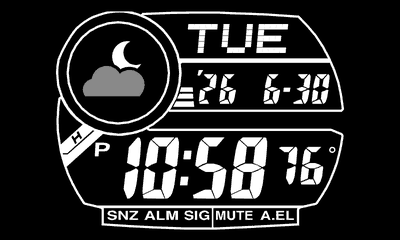
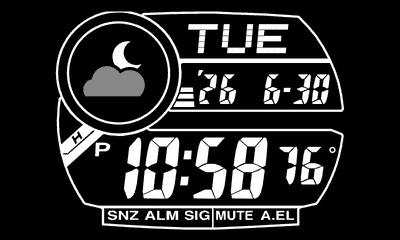
3147 circles; images with content hashes against stale caches
Claude-Session: https://claude.ai/code/session_01WrLPH9CSGwuJCbw1xzJHza

diff --git a/index.html b/index.html
@@ -36,18 +36,18 @@ small { display: block; color: var(--muted); }
 <p>Every face of the LCD Watch plugin for TRMNL, by its name in the Watch Face setting. Fully digital watches only,
 no analog-digital ones. Switch Weather on to see each watch with the plugin's Weather setting on: the weather in
 the watch's own style.</p>
-<figure class="sheet" data-lcd="all-faces.png" data-inv="all-faces-inverted.png"><img class="all" src="all-faces.png" alt="Every LCD Watch face" width="2484" height="2872"></figure>
+<figure class="sheet" data-lcd="all-faces.png?v=154c5e38" data-inv="all-faces-inverted.png?v=7dbf4859"><img class="all" src="all-faces.png?v=154c5e38" alt="Every LCD Watch face" width="2484" height="2872"></figure>
 <div class="switches"><div class="toggle" role="group" aria-label="Display"><button type="button" data-key="display" data-value="lcd">Light</button><button type="button" data-key="display" data-value="inv">Dark</button></div><div class="toggle" role="group" aria-label="Weather"><button type="button" data-key="weather" data-value="off">No weather</button><button type="button" data-key="weather" data-value="on">Weather</button></div></div>
-<div class="grid"><figure data-lcd="screens/watch-3586.png" data-inv="screens/watch-3586-inverted.png" data-label="3586 · Dot matrix, tide and sun (2026)" data-wlcd="screens/watch-3586-TRMNL.png" data-winv="screens/watch-3586-TRMNL-inverted.png" data-wlabel="3586 · Dot matrix, tide and sun (2026), Weather on"><img src="screens/watch-3586.png" alt="3586 · Dot matrix, tide and sun (2026)" loading="lazy" width="400" height="240"><figcaption><span class="label">3586 · Dot matrix, tide and sun (2026)</span></figcaption></figure><figure data-lcd="screens/watch-3575.png" data-inv="screens/watch-3575-inverted.png" data-label="3575 / 3578 · Dot matrix (2025)" data-wlcd="screens/type-c-weather.png" data-winv="screens/type-c-weather-inverted.png" data-wlabel="3575 / 3578 · Dot matrix (2025), Weather on"><img src="screens/watch-3575.png" alt="3575 / 3578 · Dot matrix (2025)" loading="lazy" width="400" height="240"><figcaption><span class="label">3575 / 3578 · Dot matrix (2025)</span></figcaption></figure><figure data-lcd="screens/watch-3559.png" data-inv="screens/watch-3559-inverted.png" data-label="3559 · Surf, tide and moon (2023)" data-wlcd="screens/watch-3559-TRMNL.png" data-winv="screens/watch-3559-TRMNL-inverted.png" data-wlabel="3559 · Surf, tide and moon (2023), Weather on"><img src="screens/watch-3559.png" alt="3559 · Surf, tide and moon (2023)" loading="lazy" width="400" height="240"><figcaption><span class="label">3559 · Surf, tide and moon (2023)</span></figcaption></figure><figure data-lcd="screens/watch-3529.png" data-inv="screens/watch-3529-inverted.png" data-label="3529 · Round, three eyes (2023)" data-wlcd="screens/watch-3529-TRMNL.png" data-winv="screens/watch-3529-TRMNL-inverted.png" data-wlabel="3529 · Round, three eyes (2023), Weather on"><img src="screens/watch-3529.png" alt="3529 · Round, three eyes (2023)" loading="lazy" width="400" height="240"><figcaption><span class="label">3529 · Round, three eyes (2023)</span></figcaption></figure><figure data-lcd="screens/watch-3536.png" data-inv="screens/watch-3536-inverted.png" data-label="3536 · Square, three eyes (2023)" data-wlcd="screens/watch-3536-TRMNL.png" data-winv="screens/watch-3536-TRMNL-inverted.png" data-wlabel="3536 · Square, three eyes (2023), Weather on"><img src="screens/watch-3536.png" alt="3536 · Square, three eyes (2023)" loading="lazy" width="400" height="240"><figcaption><span class="label">3536 · Square, three eyes (2023)</span></figcaption></figure><figure data-lcd="screens/watch-3495.png" data-inv="screens/watch-3495-inverted.png" data-label="3495 · Solar square, six languages (2021)" data-wlcd="screens/watch-3495-TRMNL.png" data-winv="screens/watch-3495-TRMNL-inverted.png" data-wlabel="3495 · Solar square, six languages (2021), Weather on"><img src="screens/watch-3495.png" alt="3495 · Solar square, six languages (2021)" loading="lazy" width="400" height="240"><figcaption><span class="label">3495 · Solar square, six languages (2021)</span></figcaption></figure><figure data-lcd="screens/watch-3506.png" data-inv="screens/watch-3506-inverted.png" data-label="3506 · Dot matrix, sport square (2021)" data-wlcd="screens/watch-3506-TRMNL.png" data-winv="screens/watch-3506-TRMNL-inverted.png" data-wlabel="3506 · Dot matrix, sport square (2021), Weather on"><img src="screens/watch-3506.png" alt="3506 · Dot matrix, sport square (2021)" loading="lazy" width="400" height="240"><figcaption><span class="label">3506 · Dot matrix, sport square (2021)</span></figcaption></figure><figure data-lcd="screens/watch-3459.png" data-inv="screens/watch-3459-inverted.png" data-label="3459 · Modern square (2018)" data-wlcd="screens/watch-3459-TRMNL.png" data-winv="screens/watch-3459-TRMNL-inverted.png" data-wlabel="3459 · Modern square (2018), Weather on"><img src="screens/watch-3459.png" alt="3459 · Modern square (2018)" loading="lazy" width="400" height="240"><figcaption><span class="label">3459 · Modern square (2018)</span></figcaption></figure><figure data-lcd="screens/watch-3445.png" data-inv="screens/watch-3445-inverted.png" data-label="3445 · Diver, graphic dial and Moon (2016)" data-wlcd="screens/watch-3445-TRMNL.png" data-winv="screens/watch-3445-TRMNL-inverted.png" data-wlabel="3445 · Diver, graphic dial and Moon (2016), Weather on"><img src="screens/watch-3445.png" alt="3445 · Diver, graphic dial and Moon (2016)" loading="lazy" width="400" height="240"><figcaption><span class="label">3445 · Diver, graphic dial and Moon (2016)</span></figcaption></figure><figure data-lcd="screens/watch-3410.png" data-inv="screens/watch-3410-inverted.png" data-label="3410 · Triple sensor, graphic dial (2013)" data-wlcd="screens/watch-3410-TRMNL.png" data-winv="screens/watch-3410-TRMNL-inverted.png" data-wlabel="3410 · Triple sensor, graphic dial (2013), Weather on"><img src="screens/watch-3410.png" alt="3410 · Triple sensor, graphic dial (2013)" loading="lazy" width="400" height="240"><figcaption><span class="label">3410 · Triple sensor, graphic dial (2013)</span></figcaption></figure><figure data-lcd="screens/watch-3414.png" data-inv="screens/watch-3414-inverted.png" data-label="3414 · Triple sensor, round (2013)" data-wlcd="screens/watch-3414-TRMNL.png" data-winv="screens/watch-3414-TRMNL-inverted.png" data-wlabel="3414 · Triple sensor, round (2013), Weather on"><img src="screens/watch-3414.png" alt="3414 · Triple sensor, round (2013)" loading="lazy" width="400" height="240"><figcaption><span class="label">3414 · Triple sensor, round (2013)</span></figcaption></figure><figure data-lcd="screens/watch-3159.png" data-inv="screens/watch-3159-inverted.png" data-label="3159 · Solar square (2012)" data-wlcd="screens/watch-3159-TRMNL.png" data-winv="screens/watch-3159-TRMNL-inverted.png" data-wlabel="3159 · Solar square (2012), Weather on"><img src="screens/watch-3159.png" alt="3159 · Solar square (2012)" loading="lazy" width="400" height="240"><figcaption><span class="label">3159 · Solar square (2012)</span></figcaption></figure><figure data-lcd="screens/watch-3403.png" data-inv="screens/watch-3403-inverted.png" data-label="3403 · XL square, bar graph and dial (2012)" data-wlcd="screens/watch-3403-TRMNL.png" data-winv="screens/watch-3403-TRMNL-inverted.png" data-wlabel="3403 · XL square, bar graph and dial (2012), Weather on"><img src="screens/watch-3403.png" alt="3403 · XL square, bar graph and dial (2012)" loading="lazy" width="400" height="240"><figcaption><span class="label">3403 · XL square, bar graph and dial (2012)</span></figcaption></figure><figure data-lcd="screens/watch-3298.png" data-inv="screens/watch-3298-inverted.png" data-label="3298 · Retro steel square (2012)" data-wlcd="screens/watch-3298-TRMNL.png" data-winv="screens/watch-3298-TRMNL-inverted.png" data-wlabel="3298 · Retro steel square (2012), Weather on"><img src="screens/watch-3298.png" alt="3298 · Retro steel square (2012)" loading="lazy" width="400" height="240"><figcaption><span class="label">3298 · Retro steel square (2012)</span></figcaption></figure><figure data-lcd="screens/watch-3299.png" data-inv="screens/watch-3299-inverted.png" data-label="3299 · World time with map (2012)" data-wlcd="screens/watch-3299-TRMNL.png" data-winv="screens/watch-3299-TRMNL-inverted.png" data-wlabel="3299 · World time with map (2012), Weather on"><img src="screens/watch-3299.png" alt="3299 · World time with map (2012)" loading="lazy" width="400" height="240"><figcaption><span class="label">3299 · World time with map (2012)</span></figcaption></figure><figure data-lcd="screens/watch-3198.png" data-inv="screens/watch-3198-inverted.png" data-label="3198 · World time with map, round (2012)" data-wlcd="screens/watch-3198-TRMNL.png" data-winv="screens/watch-3198-TRMNL-inverted.png" data-wlabel="3198 · World time with map, round (2012), Weather on"><img src="screens/watch-3198.png" alt="3198 · World time with map, round (2012)" loading="lazy" width="400" height="240"><figcaption><span class="label">3198 · World time with map, round (2012)</span></figcaption></figure><figure data-lcd="screens/watch-3240.png" data-inv="screens/watch-3240-inverted.png" data-label="3240 · Sport square, 10-year battery (2011)" data-wlcd="screens/watch-3240-TRMNL.png" data-winv="screens/watch-3240-TRMNL-inverted.png" data-wlabel="3240 · Sport square, 10-year battery (2011), Weather on"><img src="screens/watch-3240.png" alt="3240 · Sport square, 10-year battery (2011)" loading="lazy" width="400" height="240"><figcaption><span class="label">3240 · Sport square, 10-year battery (2011)</span></figcaption></figure><figure data-lcd="screens/watch-3260.png" data-inv="screens/watch-3260-inverted.png" data-label="3260 · Mud-resistant square, compass bezel and Moon (2011)" data-wlcd="screens/watch-3260-TRMNL.png" data-winv="screens/watch-3260-TRMNL-inverted.png" data-wlabel="3260 · Mud-resistant square, compass bezel and Moon (2011), Weather on"><img src="screens/watch-3260.png" alt="3260 · Mud-resistant square, compass bezel and Moon (2011)" loading="lazy" width="400" height="240"><figcaption><span class="label">3260 · Mud-resistant square, compass bezel and Moon (2011)</span></figcaption></figure><figure data-lcd="screens/watch-3229.png" data-inv="screens/watch-3229-inverted.png" data-label="3229 · Classic square (2010)" data-wlcd="screens/watch-3229-TRMNL.png" data-winv="screens/watch-3229-TRMNL-inverted.png" data-wlabel="3229 · Classic square (2010), Weather on"><img src="screens/watch-3229.png" alt="3229 · Classic square (2010)" loading="lazy" width="400" height="240"><figcaption><span class="label">3229 · Classic square (2010)</span></figcaption></figure><figure data-lcd="screens/watch-3232.png" data-inv="screens/watch-3232-inverted.png" data-label="3232 · Round, eye and bar graph (2010)" data-wlcd="screens/watch-3232-TRMNL.png" data-winv="screens/watch-3232-TRMNL-inverted.png" data-wlabel="3232 · Round, eye and bar graph (2010), Weather on"><img src="screens/watch-3232.png" alt="3232 · Round, eye and bar graph (2010)" loading="lazy" width="400" height="240"><figcaption><span class="label">3232 · Round, eye and bar graph (2010)</span></figcaption></figure><figure data-lcd="screens/watch-3217.png" data-inv="screens/watch-3217-inverted.png" data-label="3217 · Surf, tide graph and Moon (2010)" data-wlcd="screens/watch-3217-TRMNL.png" data-winv="screens/watch-3217-TRMNL-inverted.png" data-wlabel="3217 · Surf, tide graph and Moon (2010), Weather on"><img src="screens/watch-3217.png" alt="3217 · Surf, tide graph and Moon (2010)" loading="lazy" width="400" height="240"><figcaption><span class="label">3217 · Surf, tide graph and Moon (2010)</span></figcaption></figure><figure data-lcd="screens/watch-3184.png" data-inv="screens/watch-3184-inverted.png" data-label="3184 · Diver, tide graph and Moon (2009)" data-wlcd="screens/watch-3184-TRMNL.png" data-winv="screens/watch-3184-TRMNL-inverted.png" data-wlabel="3184 · Diver, tide graph and Moon (2009), Weather on"><img src="screens/watch-3184.png" alt="3184 · Diver, tide graph and Moon (2009)" loading="lazy" width="400" height="240"><figcaption><span class="label">3184 · Diver, tide graph and Moon (2009)</span></figcaption></figure><figure data-lcd="screens/watch-3151.png" data-inv="screens/watch-3151-inverted.png" data-label="3151 · Surf, tide graph and Moon (2008)" data-wlcd="screens/watch-3151-TRMNL.png" data-winv="screens/watch-3151-TRMNL-inverted.png" data-wlabel="3151 · Surf, tide graph and Moon (2008), Weather on"><img src="screens/watch-3151.png" alt="3151 · Surf, tide graph and Moon (2008)" loading="lazy" width="400" height="240"><figcaption><span class="label">3151 · Surf, tide graph and Moon (2008)</span></figcaption></figure><figure data-lcd="screens/watch-3157.png" data-inv="screens/watch-3157-inverted.png" data-label="3157 · Outdoor, compass and thermometer (2008)" data-wlcd="screens/watch-3157-TRMNL.png" data-winv="screens/watch-3157-TRMNL-inverted.png" data-wlabel="3157 · Outdoor, compass and thermometer (2008), Weather on"><img src="screens/watch-3157.png" alt="3157 · Outdoor, compass and thermometer (2008)" loading="lazy" width="400" height="240"><figcaption><span class="label">3157 · Outdoor, compass and thermometer (2008)</span></figcaption></figure><figure data-lcd="screens/watch-3147.png" data-inv="screens/watch-3147-inverted.png" data-label="3147 · Barometer, pressure graph (2008)" data-wlcd="screens/watch-3147-TRMNL.png" data-winv="screens/watch-3147-TRMNL-inverted.png" data-wlabel="3147 · Barometer, pressure graph (2008), Weather on"><img src="screens/watch-3147.png" alt="3147 · Barometer, pressure graph (2008)" loading="lazy" width="400" height="240"><figcaption><span class="label">3147 · Barometer, pressure graph (2008)</span></figcaption></figure><figure data-lcd="screens/watch-3228.png" data-inv="screens/watch-3228-inverted.png" data-label="3228 · Databank calculator (2005)" data-wlcd="screens/watch-3228-TRMNL.png" data-winv="screens/watch-3228-TRMNL-inverted.png" data-wlabel="3228 · Databank calculator (2005), Weather on"><img src="screens/watch-3228.png" alt="3228 · Databank calculator (2005)" loading="lazy" width="400" height="240"><figcaption><span class="label">3228 · Databank calculator (2005)</span></figcaption></figure><figure data-lcd="screens/watch-593.png" data-inv="screens/watch-593-inverted.png" data-label="593 · Slim retro (1989)" data-wlcd="screens/watch-593-TRMNL.png" data-winv="screens/watch-593-TRMNL-inverted.png" data-wlabel="593 · Slim retro (1989), Weather on"><img src="screens/watch-593.png" alt="593 · Slim retro (1989)" loading="lazy" width="400" height="240"><figcaption><span class="label">593 · Slim retro (1989)</span></figcaption></figure><figure data-lcd="screens/watch-3208.png" data-inv="screens/watch-3208-inverted.png" data-label="3208 · Calculator (1988)" data-wlcd="screens/watch-3208-TRMNL.png" data-winv="screens/watch-3208-TRMNL-inverted.png" data-wlabel="3208 · Calculator (1988), Weather on"><img src="screens/watch-3208.png" alt="3208 · Calculator (1988)" loading="lazy" width="400" height="240"><figcaption><span class="label">3208 · Calculator (1988)</span></figcaption></figure></div>
+<div class="grid"><figure data-lcd="screens/watch-3586.png?v=247cfe2e" data-inv="screens/watch-3586-inverted.png?v=7423b67d" data-label="3586 · Dot matrix, tide and sun (2026)" data-wlcd="screens/watch-3586-TRMNL.png?v=475f1c2d" data-winv="screens/watch-3586-TRMNL-inverted.png?v=172fe71b" data-wlabel="3586 · Dot matrix, tide and sun (2026), Weather on"><img src="screens/watch-3586.png?v=247cfe2e" alt="3586 · Dot matrix, tide and sun (2026)" loading="lazy" width="400" height="240"><figcaption><span class="label">3586 · Dot matrix, tide and sun (2026)</span></figcaption></figure><figure data-lcd="screens/watch-3575.png?v=49489c25" data-inv="screens/watch-3575-inverted.png?v=10db7499" data-label="3575 / 3578 · Dot matrix (2025)" data-wlcd="screens/type-c-weather.png?v=c8d7fae7" data-winv="screens/type-c-weather-inverted.png?v=4e03856c" data-wlabel="3575 / 3578 · Dot matrix (2025), Weather on"><img src="screens/watch-3575.png?v=49489c25" alt="3575 / 3578 · Dot matrix (2025)" loading="lazy" width="400" height="240"><figcaption><span class="label">3575 / 3578 · Dot matrix (2025)</span></figcaption></figure><figure data-lcd="screens/watch-3559.png?v=381b9902" data-inv="screens/watch-3559-inverted.png?v=97888aed" data-label="3559 · Surf, tide and moon (2023)" data-wlcd="screens/watch-3559-TRMNL.png?v=37df1bde" data-winv="screens/watch-3559-TRMNL-inverted.png?v=6c86c5d6" data-wlabel="3559 · Surf, tide and moon (2023), Weather on"><img src="screens/watch-3559.png?v=381b9902" alt="3559 · Surf, tide and moon (2023)" loading="lazy" width="400" height="240"><figcaption><span class="label">3559 · Surf, tide and moon (2023)</span></figcaption></figure><figure data-lcd="screens/watch-3529.png?v=3175a8b9" data-inv="screens/watch-3529-inverted.png?v=55dad751" data-label="3529 · Round, three eyes (2023)" data-wlcd="screens/watch-3529-TRMNL.png?v=d44d363b" data-winv="screens/watch-3529-TRMNL-inverted.png?v=6aac87b8" data-wlabel="3529 · Round, three eyes (2023), Weather on"><img src="screens/watch-3529.png?v=3175a8b9" alt="3529 · Round, three eyes (2023)" loading="lazy" width="400" height="240"><figcaption><span class="label">3529 · Round, three eyes (2023)</span></figcaption></figure><figure data-lcd="screens/watch-3536.png?v=0040b04e" data-inv="screens/watch-3536-inverted.png?v=0050d2eb" data-label="3536 · Square, three eyes (2023)" data-wlcd="screens/watch-3536-TRMNL.png?v=c11e91f8" data-winv="screens/watch-3536-TRMNL-inverted.png?v=765f6371" data-wlabel="3536 · Square, three eyes (2023), Weather on"><img src="screens/watch-3536.png?v=0040b04e" alt="3536 · Square, three eyes (2023)" loading="lazy" width="400" height="240"><figcaption><span class="label">3536 · Square, three eyes (2023)</span></figcaption></figure><figure data-lcd="screens/watch-3495.png?v=a9186cc7" data-inv="screens/watch-3495-inverted.png?v=a0311463" data-label="3495 · Solar square, six languages (2021)" data-wlcd="screens/watch-3495-TRMNL.png?v=d36f67c6" data-winv="screens/watch-3495-TRMNL-inverted.png?v=4b41333c" data-wlabel="3495 · Solar square, six languages (2021), Weather on"><img src="screens/watch-3495.png?v=a9186cc7" alt="3495 · Solar square, six languages (2021)" loading="lazy" width="400" height="240"><figcaption><span class="label">3495 · Solar square, six languages (2021)</span></figcaption></figure><figure data-lcd="screens/watch-3506.png?v=e63677c4" data-inv="screens/watch-3506-inverted.png?v=764825f4" data-label="3506 · Dot matrix, sport square (2021)" data-wlcd="screens/watch-3506-TRMNL.png?v=6356d210" data-winv="screens/watch-3506-TRMNL-inverted.png?v=5fe5a408" data-wlabel="3506 · Dot matrix, sport square (2021), Weather on"><img src="screens/watch-3506.png?v=e63677c4" alt="3506 · Dot matrix, sport square (2021)" loading="lazy" width="400" height="240"><figcaption><span class="label">3506 · Dot matrix, sport square (2021)</span></figcaption></figure><figure data-lcd="screens/watch-3459.png?v=f5abfd10" data-inv="screens/watch-3459-inverted.png?v=1ca2574f" data-label="3459 · Modern square (2018)" data-wlcd="screens/watch-3459-TRMNL.png?v=ec8e49e5" data-winv="screens/watch-3459-TRMNL-inverted.png?v=0e61fa90" data-wlabel="3459 · Modern square (2018), Weather on"><img src="screens/watch-3459.png?v=f5abfd10" alt="3459 · Modern square (2018)" loading="lazy" width="400" height="240"><figcaption><span class="label">3459 · Modern square (2018)</span></figcaption></figure><figure data-lcd="screens/watch-3445.png?v=cbdd9caf" data-inv="screens/watch-3445-inverted.png?v=206143f3" data-label="3445 · Diver, graphic dial and Moon (2016)" data-wlcd="screens/watch-3445-TRMNL.png?v=8c3977cb" data-winv="screens/watch-3445-TRMNL-inverted.png?v=3c8bde55" data-wlabel="3445 · Diver, graphic dial and Moon (2016), Weather on"><img src="screens/watch-3445.png?v=cbdd9caf" alt="3445 · Diver, graphic dial and Moon (2016)" loading="lazy" width="400" height="240"><figcaption><span class="label">3445 · Diver, graphic dial and Moon (2016)</span></figcaption></figure><figure data-lcd="screens/watch-3410.png?v=31bc8bde" data-inv="screens/watch-3410-inverted.png?v=21759045" data-label="3410 · Triple sensor, graphic dial (2013)" data-wlcd="screens/watch-3410-TRMNL.png?v=23ec7c1e" data-winv="screens/watch-3410-TRMNL-inverted.png?v=9695f5cc" data-wlabel="3410 · Triple sensor, graphic dial (2013), Weather on"><img src="screens/watch-3410.png?v=31bc8bde" alt="3410 · Triple sensor, graphic dial (2013)" loading="lazy" width="400" height="240"><figcaption><span class="label">3410 · Triple sensor, graphic dial (2013)</span></figcaption></figure><figure data-lcd="screens/watch-3414.png?v=b96f121e" data-inv="screens/watch-3414-inverted.png?v=75e56205" data-label="3414 · Triple sensor, round (2013)" data-wlcd="screens/watch-3414-TRMNL.png?v=aa2434c3" data-winv="screens/watch-3414-TRMNL-inverted.png?v=ace41509" data-wlabel="3414 · Triple sensor, round (2013), Weather on"><img src="screens/watch-3414.png?v=b96f121e" alt="3414 · Triple sensor, round (2013)" loading="lazy" width="400" height="240"><figcaption><span class="label">3414 · Triple sensor, round (2013)</span></figcaption></figure><figure data-lcd="screens/watch-3159.png?v=bccf6403" data-inv="screens/watch-3159-inverted.png?v=f689682a" data-label="3159 · Solar square (2012)" data-wlcd="screens/watch-3159-TRMNL.png?v=a822388a" data-winv="screens/watch-3159-TRMNL-inverted.png?v=91165043" data-wlabel="3159 · Solar square (2012), Weather on"><img src="screens/watch-3159.png?v=bccf6403" alt="3159 · Solar square (2012)" loading="lazy" width="400" height="240"><figcaption><span class="label">3159 · Solar square (2012)</span></figcaption></figure><figure data-lcd="screens/watch-3403.png?v=2408076f" data-inv="screens/watch-3403-inverted.png?v=b6e2b795" data-label="3403 · XL square, bar graph and dial (2012)" data-wlcd="screens/watch-3403-TRMNL.png?v=0b95ff5e" data-winv="screens/watch-3403-TRMNL-inverted.png?v=13855e8e" data-wlabel="3403 · XL square, bar graph and dial (2012), Weather on"><img src="screens/watch-3403.png?v=2408076f" alt="3403 · XL square, bar graph and dial (2012)" loading="lazy" width="400" height="240"><figcaption><span class="label">3403 · XL square, bar graph and dial (2012)</span></figcaption></figure><figure data-lcd="screens/watch-3298.png?v=b985407f" data-inv="screens/watch-3298-inverted.png?v=1e9ddee1" data-label="3298 · Retro steel square (2012)" data-wlcd="screens/watch-3298-TRMNL.png?v=830df332" data-winv="screens/watch-3298-TRMNL-inverted.png?v=c28b74c1" data-wlabel="3298 · Retro steel square (2012), Weather on"><img src="screens/watch-3298.png?v=b985407f" alt="3298 · Retro steel square (2012)" loading="lazy" width="400" height="240"><figcaption><span class="label">3298 · Retro steel square (2012)</span></figcaption></figure><figure data-lcd="screens/watch-3299.png?v=f724bd9e" data-inv="screens/watch-3299-inverted.png?v=ccc3ce2d" data-label="3299 · World time with map (2012)" data-wlcd="screens/watch-3299-TRMNL.png?v=267e0475" data-winv="screens/watch-3299-TRMNL-inverted.png?v=f82b1031" data-wlabel="3299 · World time with map (2012), Weather on"><img src="screens/watch-3299.png?v=f724bd9e" alt="3299 · World time with map (2012)" loading="lazy" width="400" height="240"><figcaption><span class="label">3299 · World time with map (2012)</span></figcaption></figure><figure data-lcd="screens/watch-3198.png?v=6f8db52a" data-inv="screens/watch-3198-inverted.png?v=cf54f501" data-label="3198 · World time with map, round (2012)" data-wlcd="screens/watch-3198-TRMNL.png?v=41dc4462" data-winv="screens/watch-3198-TRMNL-inverted.png?v=b6fcf5cd" data-wlabel="3198 · World time with map, round (2012), Weather on"><img src="screens/watch-3198.png?v=6f8db52a" alt="3198 · World time with map, round (2012)" loading="lazy" width="400" height="240"><figcaption><span class="label">3198 · World time with map, round (2012)</span></figcaption></figure><figure data-lcd="screens/watch-3240.png?v=96c7d659" data-inv="screens/watch-3240-inverted.png?v=85c90534" data-label="3240 · Sport square, 10-year battery (2011)" data-wlcd="screens/watch-3240-TRMNL.png?v=bd853ed9" data-winv="screens/watch-3240-TRMNL-inverted.png?v=d93abdc6" data-wlabel="3240 · Sport square, 10-year battery (2011), Weather on"><img src="screens/watch-3240.png?v=96c7d659" alt="3240 · Sport square, 10-year battery (2011)" loading="lazy" width="400" height="240"><figcaption><span class="label">3240 · Sport square, 10-year battery (2011)</span></figcaption></figure><figure data-lcd="screens/watch-3260.png?v=155b64ef" data-inv="screens/watch-3260-inverted.png?v=f508c914" data-label="3260 · Mud-resistant square, compass bezel and Moon (2011)" data-wlcd="screens/watch-3260-TRMNL.png?v=f97dde9c" data-winv="screens/watch-3260-TRMNL-inverted.png?v=92c6a0d5" data-wlabel="3260 · Mud-resistant square, compass bezel and Moon (2011), Weather on"><img src="screens/watch-3260.png?v=155b64ef" alt="3260 · Mud-resistant square, compass bezel and Moon (2011)" loading="lazy" width="400" height="240"><figcaption><span class="label">3260 · Mud-resistant square, compass bezel and Moon (2011)</span></figcaption></figure><figure data-lcd="screens/watch-3229.png?v=7756abcb" data-inv="screens/watch-3229-inverted.png?v=70295813" data-label="3229 · Classic square (2010)" data-wlcd="screens/watch-3229-TRMNL.png?v=aacf80ea" data-winv="screens/watch-3229-TRMNL-inverted.png?v=1088f6e6" data-wlabel="3229 · Classic square (2010), Weather on"><img src="screens/watch-3229.png?v=7756abcb" alt="3229 · Classic square (2010)" loading="lazy" width="400" height="240"><figcaption><span class="label">3229 · Classic square (2010)</span></figcaption></figure><figure data-lcd="screens/watch-3232.png?v=25acb9c6" data-inv="screens/watch-3232-inverted.png?v=268dae07" data-label="3232 · Round, eye and bar graph (2010)" data-wlcd="screens/watch-3232-TRMNL.png?v=a7e242dd" data-winv="screens/watch-3232-TRMNL-inverted.png?v=2a240232" data-wlabel="3232 · Round, eye and bar graph (2010), Weather on"><img src="screens/watch-3232.png?v=25acb9c6" alt="3232 · Round, eye and bar graph (2010)" loading="lazy" width="400" height="240"><figcaption><span class="label">3232 · Round, eye and bar graph (2010)</span></figcaption></figure><figure data-lcd="screens/watch-3217.png?v=5d086606" data-inv="screens/watch-3217-inverted.png?v=6acdacd0" data-label="3217 · Surf, tide graph and Moon (2010)" data-wlcd="screens/watch-3217-TRMNL.png?v=a68a3990" data-winv="screens/watch-3217-TRMNL-inverted.png?v=620b1646" data-wlabel="3217 · Surf, tide graph and Moon (2010), Weather on"><img src="screens/watch-3217.png?v=5d086606" alt="3217 · Surf, tide graph and Moon (2010)" loading="lazy" width="400" height="240"><figcaption><span class="label">3217 · Surf, tide graph and Moon (2010)</span></figcaption></figure><figure data-lcd="screens/watch-3184.png?v=fd0ce687" data-inv="screens/watch-3184-inverted.png?v=03f5b179" data-label="3184 · Diver, tide graph and Moon (2009)" data-wlcd="screens/watch-3184-TRMNL.png?v=e612bc1b" data-winv="screens/watch-3184-TRMNL-inverted.png?v=79ee3e22" data-wlabel="3184 · Diver, tide graph and Moon (2009), Weather on"><img src="screens/watch-3184.png?v=fd0ce687" alt="3184 · Diver, tide graph and Moon (2009)" loading="lazy" width="400" height="240"><figcaption><span class="label">3184 · Diver, tide graph and Moon (2009)</span></figcaption></figure><figure data-lcd="screens/watch-3151.png?v=6018b777" data-inv="screens/watch-3151-inverted.png?v=4c021687" data-label="3151 · Surf, tide graph and Moon (2008)" data-wlcd="screens/watch-3151-TRMNL.png?v=916dbfe1" data-winv="screens/watch-3151-TRMNL-inverted.png?v=d993ea13" data-wlabel="3151 · Surf, tide graph and Moon (2008), Weather on"><img src="screens/watch-3151.png?v=6018b777" alt="3151 · Surf, tide graph and Moon (2008)" loading="lazy" width="400" height="240"><figcaption><span class="label">3151 · Surf, tide graph and Moon (2008)</span></figcaption></figure><figure data-lcd="screens/watch-3157.png?v=14369108" data-inv="screens/watch-3157-inverted.png?v=2abaee07" data-label="3157 · Outdoor, compass and thermometer (2008)" data-wlcd="screens/watch-3157-TRMNL.png?v=c44bd03b" data-winv="screens/watch-3157-TRMNL-inverted.png?v=754ac33a" data-wlabel="3157 · Outdoor, compass and thermometer (2008), Weather on"><img src="screens/watch-3157.png?v=14369108" alt="3157 · Outdoor, compass and thermometer (2008)" loading="lazy" width="400" height="240"><figcaption><span class="label">3157 · Outdoor, compass and thermometer (2008)</span></figcaption></figure><figure data-lcd="screens/watch-3147.png?v=b303a48b" data-inv="screens/watch-3147-inverted.png?v=4d2de1d1" data-label="3147 · Barometer, pressure graph (2008)" data-wlcd="screens/watch-3147-TRMNL.png?v=81648a83" data-winv="screens/watch-3147-TRMNL-inverted.png?v=3686b124" data-wlabel="3147 · Barometer, pressure graph (2008), Weather on"><img src="screens/watch-3147.png?v=b303a48b" alt="3147 · Barometer, pressure graph (2008)" loading="lazy" width="400" height="240"><figcaption><span class="label">3147 · Barometer, pressure graph (2008)</span></figcaption></figure><figure data-lcd="screens/watch-3228.png?v=20b1bfa4" data-inv="screens/watch-3228-inverted.png?v=5c084170" data-label="3228 · Databank calculator (2005)" data-wlcd="screens/watch-3228-TRMNL.png?v=206aba65" data-winv="screens/watch-3228-TRMNL-inverted.png?v=d36df152" data-wlabel="3228 · Databank calculator (2005), Weather on"><img src="screens/watch-3228.png?v=20b1bfa4" alt="3228 · Databank calculator (2005)" loading="lazy" width="400" height="240"><figcaption><span class="label">3228 · Databank calculator (2005)</span></figcaption></figure><figure data-lcd="screens/watch-593.png?v=408f2c59" data-inv="screens/watch-593-inverted.png?v=fb441de7" data-label="593 · Slim retro (1989)" data-wlcd="screens/watch-593-TRMNL.png?v=d0d3f797" data-winv="screens/watch-593-TRMNL-inverted.png?v=3e9e8085" data-wlabel="593 · Slim retro (1989), Weather on"><img src="screens/watch-593.png?v=408f2c59" alt="593 · Slim retro (1989)" loading="lazy" width="400" height="240"><figcaption><span class="label">593 · Slim retro (1989)</span></figcaption></figure><figure data-lcd="screens/watch-3208.png?v=40ebb21b" data-inv="screens/watch-3208-inverted.png?v=99e2db0c" data-label="3208 · Calculator (1988)" data-wlcd="screens/watch-3208-TRMNL.png?v=5c207e97" data-winv="screens/watch-3208-TRMNL-inverted.png?v=16e3189c" data-wlabel="3208 · Calculator (1988), Weather on"><img src="screens/watch-3208.png?v=40ebb21b" alt="3208 · Calculator (1988)" loading="lazy" width="400" height="240"><figcaption><span class="label">3208 · Calculator (1988)</span></figcaption></figure></div>
 <h2>Display</h2>
 <p>How the screen is drawn, on any face.</p>
-<div class="grid"><figure data-lcd="screens/display-paper.png" data-inv="screens/display-paper.png" data-label="Light" data-wlcd="screens/display-paper-weather.png" data-winv="screens/display-paper-weather.png" data-wlabel="Light, with weather"><img src="screens/display-paper.png" alt="Light" loading="lazy" width="400" height="240"><figcaption><span class="label">Light</span></figcaption></figure><figure data-lcd="screens/display-inverted_white.png" data-inv="screens/display-inverted_white.png" data-label="Dark" data-wlcd="screens/display-inverted_white-weather.png" data-winv="screens/display-inverted_white-weather.png" data-wlabel="Dark, with weather"><img src="screens/display-inverted_white.png" alt="Dark" loading="lazy" width="400" height="240"><figcaption><span class="label">Dark</span></figcaption></figure></div>
+<div class="grid"><figure data-lcd="screens/display-paper.png?v=f5abfd10" data-inv="screens/display-paper.png?v=f5abfd10" data-label="Light" data-wlcd="screens/display-paper-weather.png?v=ec8e49e5" data-winv="screens/display-paper-weather.png?v=ec8e49e5" data-wlabel="Light, with weather"><img src="screens/display-paper.png?v=f5abfd10" alt="Light" loading="lazy" width="400" height="240"><figcaption><span class="label">Light</span></figcaption></figure><figure data-lcd="screens/display-inverted_white.png?v=1ca2574f" data-inv="screens/display-inverted_white.png?v=1ca2574f" data-label="Dark" data-wlcd="screens/display-inverted_white-weather.png?v=0e61fa90" data-winv="screens/display-inverted_white-weather.png?v=0e61fa90" data-wlabel="Dark, with weather"><img src="screens/display-inverted_white.png?v=1ca2574f" alt="Dark" loading="lazy" width="400" height="240"><figcaption><span class="label">Dark</span></figcaption></figure></div>
 <h2>Dot matrix screen types</h2>
 <p>The 3575 / 3578's own timekeeping screens.</p>
-<div class="grid"><figure data-lcd="screens/type-a.png" data-inv="screens/type-a-inverted.png" data-label="Type A: world time" data-wlcd="screens/type-a-weather.png" data-winv="screens/type-a-weather-inverted.png" data-wlabel="Type A: world time, Weather on"><img src="screens/type-a.png" alt="Type A: world time" loading="lazy" width="400" height="240"><figcaption><span class="label">Type A: world time</span></figcaption></figure><figure data-lcd="screens/type-b.png" data-inv="screens/type-b-inverted.png" data-label="Type B: short weekday" data-wlcd="screens/type-b-weather.png" data-winv="screens/type-b-weather-inverted.png" data-wlabel="Type B: short weekday, Weather on"><img src="screens/type-b.png" alt="Type B: short weekday" loading="lazy" width="400" height="240"><figcaption><span class="label">Type B: short weekday</span></figcaption></figure><figure data-lcd="screens/type-c.png" data-inv="screens/type-c-inverted.png" data-label="Type C: year" data-wlcd="screens/type-c-weather.png" data-winv="screens/type-c-weather-inverted.png" data-wlabel="Type C: year, Weather on"><img src="screens/type-c.png" alt="Type C: year" loading="lazy" width="400" height="240"><figcaption><span class="label">Type C: year</span></figcaption></figure><figure data-lcd="screens/type-d.png" data-inv="screens/type-d-inverted.png" data-label="Type D: two world times" data-wlcd="screens/type-d-weather.png" data-winv="screens/type-d-weather-inverted.png" data-wlabel="Type D: two world times, Weather on"><img src="screens/type-d.png" alt="Type D: two world times" loading="lazy" width="400" height="240"><figcaption><span class="label">Type D: two world times</span></figcaption></figure></div>
+<div class="grid"><figure data-lcd="screens/type-a.png?v=7abb56f1" data-inv="screens/type-a-inverted.png?v=5dd1c0d3" data-label="Type A: world time" data-wlcd="screens/type-a-weather.png?v=8ba5d08a" data-winv="screens/type-a-weather-inverted.png?v=767952a0" data-wlabel="Type A: world time, Weather on"><img src="screens/type-a.png?v=7abb56f1" alt="Type A: world time" loading="lazy" width="400" height="240"><figcaption><span class="label">Type A: world time</span></figcaption></figure><figure data-lcd="screens/type-b.png?v=79d2f0b9" data-inv="screens/type-b-inverted.png?v=65db062e" data-label="Type B: short weekday" data-wlcd="screens/type-b-weather.png?v=eb3f860c" data-winv="screens/type-b-weather-inverted.png?v=b0cd3803" data-wlabel="Type B: short weekday, Weather on"><img src="screens/type-b.png?v=79d2f0b9" alt="Type B: short weekday" loading="lazy" width="400" height="240"><figcaption><span class="label">Type B: short weekday</span></figcaption></figure><figure data-lcd="screens/type-c.png?v=49489c25" data-inv="screens/type-c-inverted.png?v=10db7499" data-label="Type C: year" data-wlcd="screens/type-c-weather.png?v=c8d7fae7" data-winv="screens/type-c-weather-inverted.png?v=4e03856c" data-wlabel="Type C: year, Weather on"><img src="screens/type-c.png?v=49489c25" alt="Type C: year" loading="lazy" width="400" height="240"><figcaption><span class="label">Type C: year</span></figcaption></figure><figure data-lcd="screens/type-d.png?v=7054c6ec" data-inv="screens/type-d-inverted.png?v=60c748a4" data-label="Type D: two world times" data-wlcd="screens/type-d-weather.png?v=134eff2d" data-winv="screens/type-d-weather-inverted.png?v=f2734b71" data-wlabel="Type D: two world times, Weather on"><img src="screens/type-d.png?v=7054c6ec" alt="Type D: two world times" loading="lazy" width="400" height="240"><figcaption><span class="label">Type D: two world times</span></figcaption></figure></div>
 <h2>Digit styles</h2>
 <p>The 3575 / 3578's two digit styles.</p>
-<div class="grid"><figure data-lcd="screens/digits-standard.png" data-inv="screens/digits-standard-inverted.png" data-label="Standard" data-wlcd="screens/digits-standard-weather.png" data-winv="screens/digits-standard-weather-inverted.png" data-wlabel="Standard, Weather on"><img src="screens/digits-standard.png" alt="Standard" loading="lazy" width="400" height="240"><figcaption><span class="label">Standard</span></figcaption></figure><figure data-lcd="screens/digits-classic.png" data-inv="screens/digits-classic-inverted.png" data-label="Classic" data-wlcd="screens/digits-classic-weather.png" data-winv="screens/digits-classic-weather-inverted.png" data-wlabel="Classic, Weather on"><img src="screens/digits-classic.png" alt="Classic" loading="lazy" width="400" height="240"><figcaption><span class="label">Classic</span></figcaption></figure></div>
+<div class="grid"><figure data-lcd="screens/digits-standard.png?v=49489c25" data-inv="screens/digits-standard-inverted.png?v=10db7499" data-label="Standard" data-wlcd="screens/digits-standard-weather.png?v=c8d7fae7" data-winv="screens/digits-standard-weather-inverted.png?v=4e03856c" data-wlabel="Standard, Weather on"><img src="screens/digits-standard.png?v=49489c25" alt="Standard" loading="lazy" width="400" height="240"><figcaption><span class="label">Standard</span></figcaption></figure><figure data-lcd="screens/digits-classic.png?v=d7b8cbf0" data-inv="screens/digits-classic-inverted.png?v=2aaa8346" data-label="Classic" data-wlcd="screens/digits-classic-weather.png?v=ac896d91" data-winv="screens/digits-classic-weather-inverted.png?v=52d72b3a" data-wlabel="Classic, Weather on"><img src="screens/digits-classic.png?v=d7b8cbf0" alt="Classic" loading="lazy" width="400" height="240"><figcaption><span class="label">Classic</span></figcaption></figure></div>
 </main>
 <script>
 (function () {
